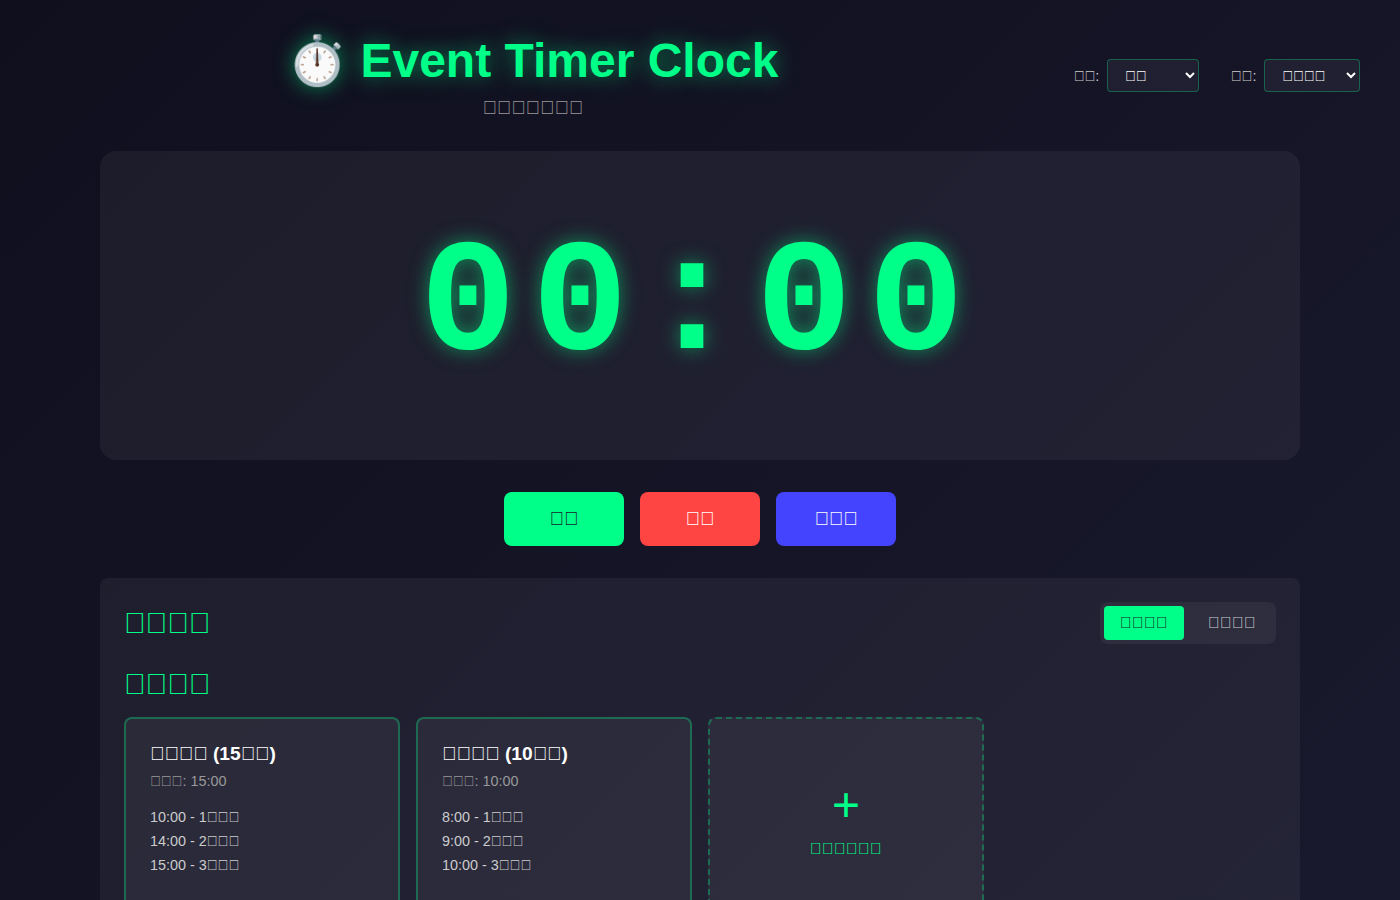
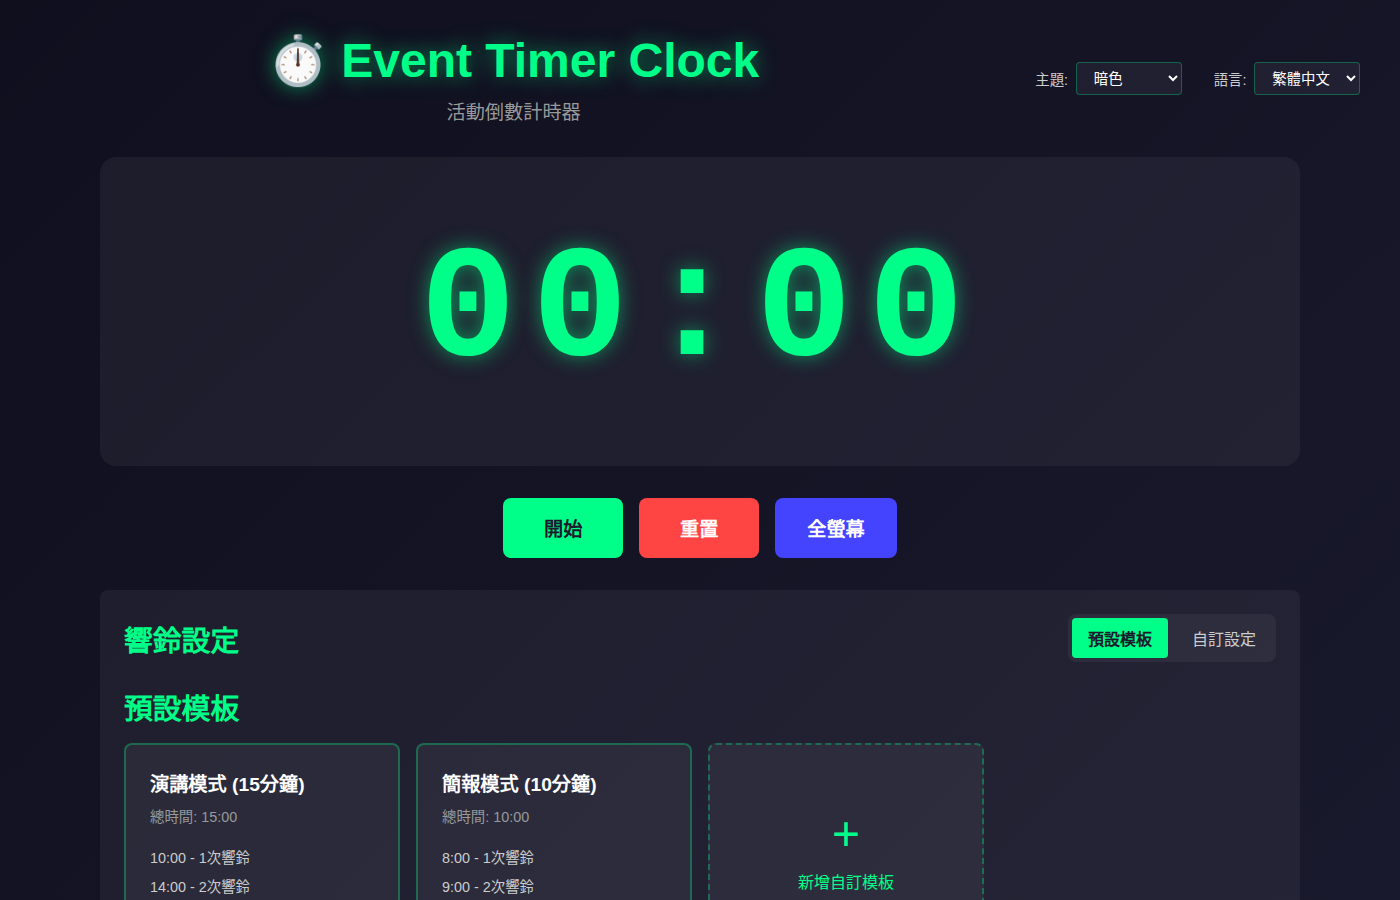
Add CJK fonts for proper Chinese text rendering in screenshots and add copilot instructions

diff --git a/.github/copilot-instructions.md b/.github/copilot-instructions.md
@@ -1,0 +1,23 @@
+# Copilot Instructions for EventTimerClock
+
+## Screenshot Capture Requirements
+
+When capturing screenshots for this application that include Traditional Chinese (繁體中文) text:
+
+1. **Install CJK fonts before capturing screenshots**: The headless browser environment needs Chinese font support to properly render Traditional Chinese characters. Install `fonts-noto-cjk` package:
+   ```bash
+   sudo apt-get install -y fonts-noto-cjk
+   fc-cache -fv
+   ```
+
+2. **Why this is necessary**: Without CJK (Chinese, Japanese, Korean) fonts installed, Chinese characters will render as empty boxes (tofu □□□) in screenshots taken with headless browsers like Playwright or Puppeteer.
+
+3. **Verify font installation**: After installing, refresh the font cache with `fc-cache -fv` before launching the browser.
+
+## Multi-language Support
+
+This application supports:
+- Traditional Chinese (zh-TW)
+- English (en)
+
+When creating screenshots for documentation, capture both language versions to ensure complete coverage.
